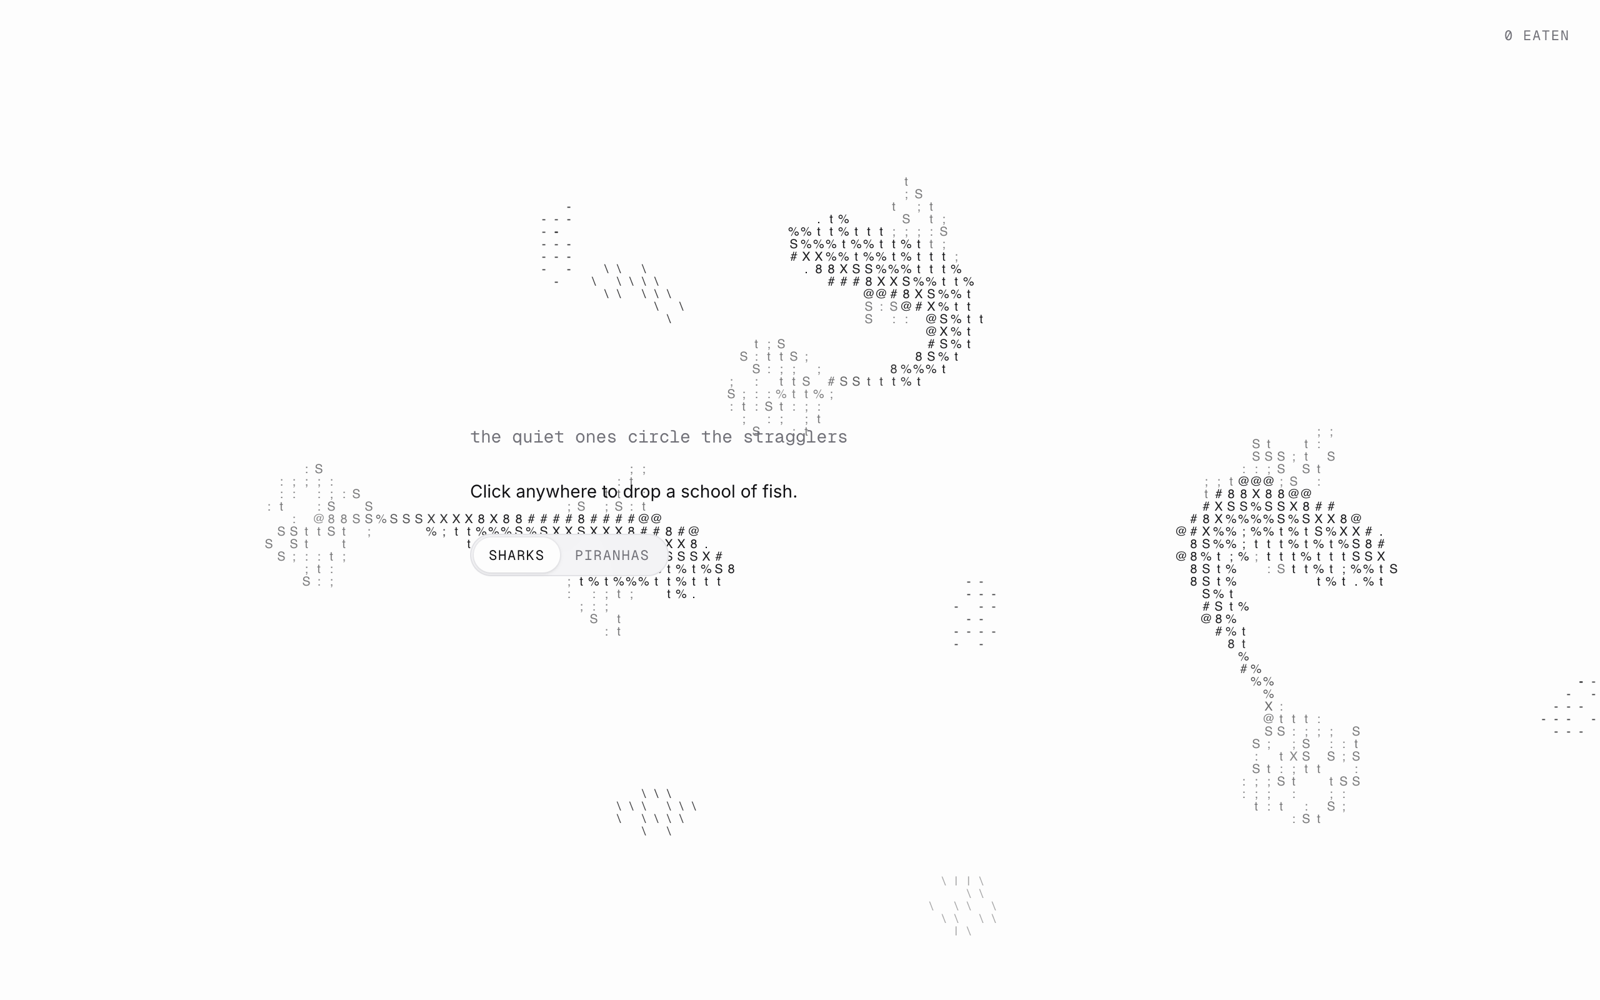
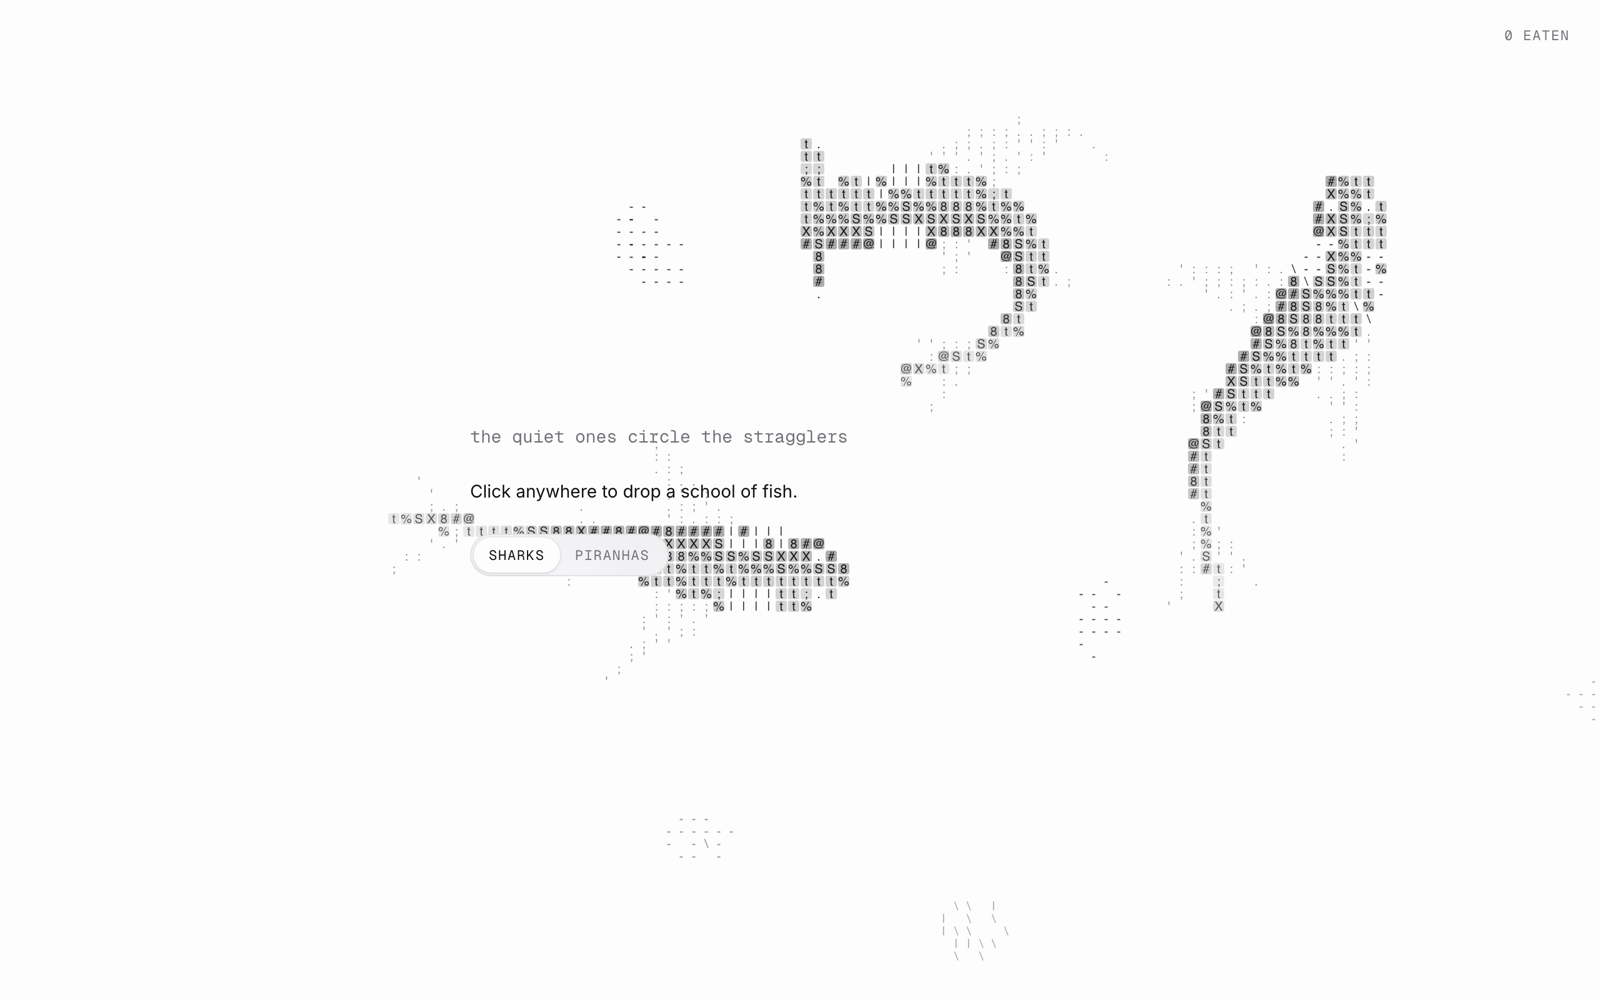
Ocean: sharks as shaded tiles with swept-back pectorals, dorsal line, gill slits and a forked tail, turning wide; every second shark a hammerhead; piranhas get blood on click and go into a frenzy, faster and tighter, tearing through the cloud

diff --git a/registry/blocks/ocean.tsx b/registry/blocks/ocean.tsx
@@ -7,9 +7,11 @@ import { hash, stroke, useAsciiCanvas, type AsciiGrid } from "@/hooks/use-ascii-
 // Bait fish are single strokes that school and scatter. Predators are
 // shaded with a glyph ramp: sparse glyphs where the light falls, dense ones
 // in shadow, so the texture reads as a body. Two kinds:
-//   shark   — a few long bodies cruising slowly, lunging at stragglers
+//   shark   — a few long bodies, shaded tiles with their glyphs, cruising and
+//             lunging at stragglers; every second one is a hammerhead
 //   piranha — a pack of short fast bodies that turn on prey together
-// Click to drop a school where you clicked. `onEat` reports the running total.
+// Click: sharks get a new school; piranhas get blood in the water and go into
+// a frenzy, tearing through it. `onEat` reports the fish eaten so far.
 //
 //   <Ocean predator="piranha" className="h-96" onEat={setEaten} />
 
@@ -29,8 +31,12 @@ type Hunter = {
   target: Bait | null
   /** Seconds left before it hunts again. */
   full: number
+  /** A hammerhead among the sharks. */
+  hammer: boolean
 }
 type Splash = { x: number; y: number; age: number; seed: number }
+/** A cloud of blood, for the piranhas. */
+type Blood = { x: number; y: number; age: number; seed: number }
 
 type Water = {
   width: number
@@ -38,6 +44,7 @@ type Water = {
   bait: Bait[]
   hunters: Hunter[]
   splashes: Splash[]
+  blood: Blood[]
   eaten: number
   onEat?: (eaten: number) => void
 }
@@ -46,14 +53,25 @@ const NODES = 16
 const RAMP = ":;t%SX8#@"
 const FIN = "%;tS:"
 const SPLASH_LIFE = 0.9
+const BLOOD_LIFE = 4.5
+
+/** A fin as a triangle in body space: leading root, trailing root, tip (s), and how far the tip reaches past the body (fraction of length). */
+type Fin = [number, number, number, number]
 
 type Profile = {
   /** Half-width of the body at s (0 snout → 1 tail), as a fraction of length. */
   body: (s: number) => number
-  /** Fin reach beyond the body at s, as a fraction of length (0: no fin). */
-  fin: (s: number) => number
+  fins: Fin[]
+  /** Where the dorsal fin rides on the back, drawn bright down the middle. */
+  ridge?: [number, number]
+  /** Where the gill slits cut across the flanks. */
+  gills?: [number, number]
+  /** The eyes: s along, and how far out (fraction of length). */
+  eye: [number, number]
   cruise: number
   chase: number
+  /** Speed in a frenzy (piranhas in blood). */
+  frenzy: number
   /** Max turn, rad/s. */
   agility: number
   reach: number
@@ -66,32 +84,61 @@ const smooth = (a: number, b: number, x: number) => {
 
 const PROFILES: Record<Kind, Profile> = {
   shark: {
+    // Blunt snout, widest behind the gills, a long taper to the tail.
     body: (s) =>
-      s < 0.16
-        ? 0.085 * Math.pow(Math.sin(((s / 0.16) * Math.PI) / 2), 0.9)
-        : s < 0.84
-          ? 0.085 - 0.07 * smooth(0.34, 0.84, s)
-          : 0.015,
-    // Pectorals swept back, and the tail's two lobes.
-    fin: (s) =>
-      s > 0.24 && s < 0.44
-        ? 0.17 * (1 - (s - 0.24) / 0.2) * smooth(0.24, 0.27, s)
-        : s > 0.86
-          ? 0.13 * ((s - 0.86) / 0.14)
-          : 0,
+      s < 0.13
+        ? 0.09 * Math.pow(Math.sin(((s / 0.13) * Math.PI) / 2), 0.95)
+        : s < 0.3
+          ? 0.09 + 0.016 * smooth(0.13, 0.3, s)
+          : s < 0.86
+            ? 0.019 + 0.087 * Math.pow(1 - (s - 0.3) / 0.56, 1.25)
+            : 0.016,
+    fins: [
+      [0.15, 0.43, 0.55, 0.26], // pectorals, swept back: what makes it a shark from above
+      [0.57, 0.65, 0.69, 0.085], // pelvics
+      [0.86, 0.99, 1.1, 0.11], // the forked tail
+    ],
+    ridge: [0.33, 0.47],
+    gills: [0.19, 0.29],
+    eye: [0.09, 0.055],
     cruise: 30,
     chase: 74,
+    frenzy: 74,
     agility: 1.4,
     reach: 0.12,
   },
   piranha: {
     body: (s) => (s < 0.8 ? 0.2 * Math.pow(Math.sin(((s + 0.04) / 0.84) * Math.PI), 0.7) : 0.03),
-    fin: (s) => (s > 0.32 && s < 0.5 ? 0.08 : s > 0.8 ? 0.2 * ((s - 0.8) / 0.2) : 0),
+    fins: [
+      [0.3, 0.45, 0.52, 0.08],
+      [0.8, 0.98, 1.12, 0.17],
+    ],
+    eye: [0.14, 0.13],
     cruise: 44,
     chase: 120,
+    frenzy: 230,
     agility: 5,
     reach: 0.3,
   },
+}
+
+/** The hammerhead: the same shark under a wide flat head, eyes out on its tips. */
+const HAMMER: Profile = {
+  ...PROFILES.shark,
+  body: (s) =>
+    Math.max(PROFILES.shark.body(s), s < 0.08 ? 0.2 * smooth(0, 0.012, s) * (1 - smooth(0.05, 0.08, s)) : 0),
+  eye: [0.035, 0.19],
+}
+
+/** Is (s, a) inside a fin triangle whose base sits on the spine? */
+function inFin([s0, s1, tip, reach]: Fin, body: (s: number) => number, s: number, a: number) {
+  const ax = s0, ay = 0
+  const bx = s1, by = 0
+  const cx = tip, cy = body(Math.min(1, tip)) + reach
+  const d = (by - cy) * (ax - cx) + (cx - bx) * (ay - cy)
+  const u = ((by - cy) * (s - cx) + (cx - bx) * (a - cy)) / d
+  const v = ((cy - ay) * (s - cx) + (ax - cx) * (a - cy)) / d
+  return u >= 0 && v >= 0 && u + v <= 1
 }
 
 function spawnHunter(kind: Kind, width: number, height: number, i: number, n: number): Hunter {
@@ -114,6 +161,8 @@ function spawnHunter(kind: Kind, width: number, height: number, i: number, n: nu
     turnTo: 0,
     retarget: r(5) * 2,
     seed: r(6) * 100,
+    // Every second shark is a hammerhead.
+    hammer: kind === "shark" && i % 2 === 1,
     target: null,
     full: r(7) * 3,
   }
@@ -138,6 +187,8 @@ function step(kind: Kind, w: Water, dt: number, time: number) {
   const P = PROFILES[kind]
   for (const s of w.splashes) s.age += dt
   w.splashes = w.splashes.filter((s) => s.age < SPLASH_LIFE)
+  for (const b of w.blood) b.age += dt
+  w.blood = w.blood.filter((b) => b.age < BLOOD_LIFE)
 
   // Bait: separation, alignment, cohesion; scatter from any head close by.
   const live = w.bait.filter((b) => b.alive)
@@ -211,7 +262,7 @@ function step(kind: Kind, w: Water, dt: number, time: number) {
     h.full = Math.max(0, h.full - dt)
     h.retarget -= dt
     if (h.retarget < 0) {
-      h.turnTo = (hash(h.seed, time, 3) - 0.5) * (kind === "shark" ? 0.9 : 2.4)
+      h.turnTo = (hash(h.seed, time, 3) - 0.5) * (kind === "shark" ? 0.45 : 2.4)
       h.retarget = 1.5 + hash(h.seed, time, 4) * 2.5
     }
     let want = h.turnTo
@@ -238,7 +289,14 @@ function step(kind: Kind, w: Water, dt: number, time: number) {
     }
     const towards = (x: number, y: number) =>
       Math.max(-P.agility, Math.min(P.agility, wrapAngle(Math.atan2(y - hy, x - hx) - h.heading) * 3))
-    if (h.target) {
+    // Blood in the water: every piranha goes mad for it, tearing through the cloud.
+    const cloud = w.blood[w.blood.length - 1]
+    if (cloud) {
+      const spin = (h.seed % 2 > 1 ? 1 : -1) * (time * 5 + h.seed)
+      const rad = 8 + (h.seed % 1) * 34
+      want = towards(cloud.x + Math.cos(spin) * rad, cloud.y + Math.sin(spin) * rad) * 1.6
+      speed = P.frenzy
+    } else if (h.target) {
       want = towards(h.target.x, h.target.y)
       speed = P.chase
       if (Math.hypot(h.target.x - hx, h.target.y - hy) < Math.max(10, h.length * P.reach * 0.5)) {
@@ -266,15 +324,17 @@ function step(kind: Kind, w: Water, dt: number, time: number) {
       const d = Math.hypot(dx, dy)
       if (d < h.length * 0.9 && d > 0) want += wrapAngle(Math.atan2(dy, dx) - h.heading) * (1 - d / (h.length * 0.9)) * 2
     }
-    want = Math.max(-P.agility, Math.min(P.agility, want))
+    // Sharks always turn wide; a tight turn folds the body out of shape.
+    const cap = P.agility * (cloud ? 1.6 : 1) * (kind === "shark" ? (h.target ? 0.6 : 0.45) : 1)
+    want = Math.max(-cap, Math.min(cap, want))
     const m = h.length * 0.3
-    if (!h.target && (hx < m || hy < m || hx > w.width - m || hy > w.height - m))
+    if (!h.target && !cloud && (hx < m || hy < m || hx > w.width - m || hy > w.height - m))
       want = towards(w.width / 2, w.height / 2) * 0.8
 
-    h.turn += (want - h.turn) * Math.min(1, dt * (kind === "shark" ? 1.5 : 6))
-    h.speed += (speed - h.speed) * Math.min(1, dt * (kind === "shark" ? 0.8 : 3))
-    const beat = kind === "shark" ? 2.2 : 9
-    h.heading += (h.turn + Math.sin(time * beat + h.seed) * (kind === "shark" ? 0.18 : 0.6)) * dt
+    h.turn += (want - h.turn) * Math.min(1, dt * (kind === "shark" ? 1.5 : cloud ? 10 : 6))
+    h.speed += (speed - h.speed) * Math.min(1, dt * (kind === "shark" ? 0.8 : cloud ? 5 : 3))
+    const beat = kind === "shark" ? 2.2 : cloud ? 16 : 9
+    h.heading += (h.turn + Math.sin(time * beat + h.seed) * (kind === "shark" ? 0.07 : 0.6)) * dt
     h.spine[0] = [hx + Math.cos(h.heading) * h.speed * dt, hy + Math.sin(h.heading) * h.speed * dt]
     const seg = h.length / (NODES - 1)
     for (let i = 1; i < NODES; i++) {
@@ -297,7 +357,8 @@ function locate(spine: Vec[], x: number, y: number) {
     const vx = bx - ax
     const vy = by - ay
     const len2 = vx * vx + vy * vy || 1
-    const t = Math.max(0, Math.min(1, ((x - ax) * vx + (y - ay) * vy) / len2))
+    // The last segment runs on past the tail, so a tail fin can reach beyond it.
+    const t = Math.max(0, Math.min(i === NODES - 2 ? 2.5 : 1, ((x - ax) * vx + (y - ay) * vy) / len2))
     const d = Math.hypot(x - (ax + vx * t), y - (ay + vy * t))
     if (d < best) {
       best = d
@@ -320,7 +381,6 @@ function point(spine: Vec[], s: number, across: number) {
 
 function draw(kind: Kind, g: AsciiGrid, w: Water, accent: string) {
   const { cell } = g
-  const P = PROFILES[kind]
   const cellOf = (x: number, y: number): Vec => [Math.floor(x / cell), Math.floor(y / cell)]
 
   for (const b of w.bait) {
@@ -329,13 +389,30 @@ function draw(kind: Kind, g: AsciiGrid, w: Water, accent: string) {
     g.glyph(c, r, stroke(Math.atan2(b.vy, b.vx)), g.ink, 0.36 + b.alarm * 0.45)
   }
 
+  // Blood: a dense red bloom that thins and spreads as it fades.
+  for (const b of w.blood) {
+    const t = b.age / BLOOD_LIFE
+    const radius = cell * 1.5 + Math.sqrt(t) * cell * 7
+    const seen = new Set<string>()
+    for (let i = 0; i < 46; i++) {
+      const a = hash(b.seed, i, 1) * Math.PI * 2 + t * (hash(b.seed, i, 4) - 0.5)
+      const d = radius * Math.sqrt(hash(b.seed, i, 2))
+      const [c, r] = cellOf(b.x + Math.cos(a) * d, b.y + Math.sin(a) * d + t * cell * 2)
+      if (seen.has(`${c},${r}`)) continue
+      seen.add(`${c},${r}`)
+      const k = Math.min(RAMP.length - 1, Math.floor((1 - d / radius) * (1 - t) * RAMP.length))
+      g.glyph(c, r, RAMP[k], accent, Math.pow(1 - t, 0.7) * (0.5 + (1 - d / radius) * 0.5))
+    }
+  }
+
   for (const h of w.hunters) {
+    const P = h.hammer ? HAMMER : PROFILES[kind]
     const L = h.length
     let x0 = Infinity, y0 = Infinity, x1 = -Infinity, y1 = -Infinity
     for (const [x, y] of h.spine) {
       x0 = Math.min(x0, x); y0 = Math.min(y0, y); x1 = Math.max(x1, x); y1 = Math.max(y1, y)
     }
-    const pad = L * 0.24
+    const pad = L * 0.42
     const [c0, r0] = cellOf(x0 - pad, y0 - pad)
     const [c1, r1] = cellOf(x1 + pad, y1 + pad)
     for (let r = Math.max(0, r0); r <= Math.min(g.rows, r1); r++)
@@ -350,20 +427,40 @@ function draw(kind: Kind, g: AsciiGrid, w: Water, accent: string) {
           const light = Math.max(0, Math.min(1, 0.62 - u * 0.32 - Math.abs(u) * Math.abs(u) * 0.3 + (n - 0.5) * 0.18))
           const char = RAMP[Math.min(RAMP.length - 1, Math.floor((1 - light) * RAMP.length))]
           const tail = smooth(0.6, 1, s)
-          g.glyph(c, r, char, g.ink, 0.95 - tail * 0.45)
+          // The dorsal fin, seen from above: a bright dense line down the back.
+          const ridge = P.ridge && s > P.ridge[0] && s < P.ridge[1] && Math.abs(u) < 0.12
+          // Sharks are tiles: a block shaded by the light with its glyph on top.
+          if (kind === "shark") g.block(c, r, g.ink, (0.1 + (1 - light) * 0.28) * (1 - tail * 0.5))
+          g.glyph(c, r, ridge ? "8" : char, g.ink, ridge ? 0.9 : 0.95 - tail * 0.3)
           continue
         }
-        const fin = P.fin(s) * L
-        if (fin > 0 && a <= body + fin && n > 0.2) {
+        if (P.fins.some((f) => inFin(f, P.body, s, a / L))) {
           const char = FIN[Math.floor(n * FIN.length)]
+
           // Piranhas wear their colour on the fins.
-          g.glyph(c, r, char, kind === "piranha" ? accent : g.ink, kind === "piranha" ? 0.9 : 0.55)
+          // Fins stay lighter than the body, so the silhouette reads.
+          g.glyph(c, r, kind === "piranha" ? char : ":;.'"[Math.floor(n * 4)], kind === "piranha" ? accent : g.ink, kind === "piranha" ? 0.9 : 0.5)
         }
       }
 
+    // Gill slits: short strokes across each flank.
+    if (P.gills) {
+      const [g0, g1] = P.gills
+      for (let k = 0; k < 4; k++) {
+        const gs = g0 + ((g1 - g0) * k) / 3
+        for (const side of [-1, 1])
+          for (const f of [0.55, 0.85]) {
+            const q = point(h.spine, gs, side * P.body(gs) * L * f)
+            const [qc, qr] = cellOf(q.x, q.y)
+            g.clear(qc, qr)
+            g.glyph(qc, qr, stroke(q.dir + Math.PI / 2), g.ink, 0.85)
+          }
+      }
+    }
+
     // Eyes; piranhas show their teeth.
     for (const side of [-1, 1]) {
-      const eye = point(h.spine, kind === "shark" ? 0.09 : 0.14, side * P.body(0.12) * L * 0.7)
+      const eye = point(h.spine, P.eye[0], side * P.eye[1] * L)
       const [ec, er] = cellOf(eye.x, eye.y)
       g.clear(ec, er)
       g.glyph(ec, er, kind === "shark" ? "." : "o", g.ink, 1)
@@ -371,7 +468,7 @@ function draw(kind: Kind, g: AsciiGrid, w: Water, accent: string) {
     if (kind === "piranha") {
       const jaw = point(h.spine, 0.01, 0)
       const [jc, jr] = cellOf(jaw.x + Math.cos(jaw.dir) * cell * 0.6, jaw.y + Math.sin(jaw.dir) * cell * 0.6)
-      g.glyph(jc, jr, "v", g.ink, h.target ? 1 : 0.6)
+      g.glyph(jc, jr, "v", g.ink, h.target || w.blood.length ? 1 : 0.6)
     }
   }
 
@@ -399,7 +496,7 @@ export function Ocean({
   predator?: Kind
   /** How many hunters; defaults to 3 sharks or a pack of 8 piranhas, fewer in a small ocean. */
   count?: number
-  /** The piranhas' fins and splashes; sharks stay in the ink. */
+  /** The piranhas' fins, splashes and blood; sharks stay in the ink. */
   accent?: string
   cell?: number
   onEat?: (eaten: number) => void
@@ -428,6 +525,7 @@ export function Ocean({
           school(width * (0.2 + hash(i, 1, 9) * 0.6), height * (0.2 + hash(i, 2, 9) * 0.6), 16, i + 1)
         ).flat(),
         splashes: [],
+        blood: [],
         eaten: prev?.eaten ?? 0,
         onEat: (k) => eat.current?.(k),
       }
@@ -445,8 +543,14 @@ export function Ocean({
         const w = scene.current
         if (!w) return
         const box = e.currentTarget.getBoundingClientRect()
-        // A new school where you clicked; the oldest fish make room.
-        const fresh = school(e.clientX - box.left, e.clientY - box.top, 12, Math.random() * 1000)
+        const x = e.clientX - box.left
+        const y = e.clientY - box.top
+        // Piranhas get blood; sharks get a new school, and the oldest fish make room.
+        if (w.kind === "piranha") {
+          w.blood.push({ x, y, age: 0, seed: Math.random() * 1000 })
+          return
+        }
+        const fresh = school(x, y, 12, Math.random() * 1000)
         w.bait.push(...fresh)
         if (w.bait.length > 160) w.bait.splice(0, w.bait.length - 160)
       }}

diff --git a/registry/examples/ocean.tsx b/registry/examples/ocean.tsx
@@ -22,7 +22,9 @@ export function OceanExample({ predator: initial = "shark" }: { predator?: "shar
         <p className="font-mono text-sm text-muted-foreground">
           {predator === "shark" ? "the quiet ones circle the stragglers" : "nothing in the river stays whole for long"}
         </p>
-        <p className="max-w-md text-sm text-foreground">Click anywhere to drop a school of fish.</p>
+        <p className="max-w-md text-sm text-foreground">
+          {predator === "shark" ? "Click anywhere to drop a school of fish." : "Click anywhere to put blood in the water."}
+        </p>
         <div className="pointer-events-auto w-fit rounded-full bg-background/85 backdrop-blur-sm">
           <Segmented
             aria-label="Predator"

diff --git a/skills/uia/references/examples.md b/skills/uia/references/examples.md
@@ -25,7 +25,7 @@ your visual reference. Screenshots are also in the uia repo under
 | Ground station | `example-ground-station` | drag-to-turn wireframe globe with orbits (front solid, back dashed), the night side shaded for volume, satellites as a small glyph along their heading, a recenter button only once turned, "in view" stat, sky plot of the pass (dashed when upcoming, live in `success`), countdown or live Mbps, onboard `MeterBar`, satellites as `WidgetListRow`s with a 3 h pass timeline + `StatusBadge`, station `Select` with mono coordinates, UTC clock ×60 in the footer and a Book CTA that books the next pass (never the one under way); switching station says "Tracking from …" where the clock is, for a moment (no toast); out-of-view rows use a hollow dot; phones drop the timelines | live tracking of things moving over a place (satellites, fleets, deliveries), any widget with a spatial view + a list of upcoming windows |
 | Purchase orders + Filter | `example-purchase-orders` | **PurchaseOrders:** status `Segmented` with mono counts (a `Select` on phones), removable date chip, supplier `Select`, search that opens from an icon; rows as a schedule — placed → delivery, `brand` fill as far as billed, dashed outline while pending, a ring for delivery, one dashed "Today" line and week lines drawn once behind the rows, legend under it; checkboxes turn the footer into bulk actions. **BillsFilter:** due-date chips that read "Sep 1" over the native picker, an amount range over its histogram (bars lit inside the range, sqrt scale), "Overdue only" switch, document types with counts, "Show N bills" counting live, Reset once changed | any list of records over time with bulk actions; any filter panel (show the distribution you are cutting, count the result on the button) |
 | Koi pond | `example-koi-pond` | an ASCII backdrop: koi as small blocks in the ink with patches in one colour, eyes punched out, whiskers and fins as strokes, swimming on a cell grid under a typed line; click drops food, rings spread in ASCII and the nearest koi turn for it; the corner counts what was eaten | landing and empty pages, a hero behind a short line; never inside a widget |
-| Ocean | `example-ocean` | an ASCII backdrop of predators and prey: bait fish as single strokes that school and scatter, predators shaded with a glyph ramp (sparse where the light falls, dense in shadow); sharks cruise and lunge at stragglers, a piranha pack turns on prey together with fins in one colour; click drops a school; the corner counts what was eaten | the same places as the koi pond: landing, empty and error pages, behind a short line |
+| Ocean | `example-ocean` | an ASCII backdrop of predators and prey: bait fish as single strokes that school and scatter, predators shaded with a glyph ramp (sparse where the light falls, dense in shadow); sharks are shaded tiles with swept-back pectorals, a dorsal line, gill slits and a forked tail, every second one a hammerhead, turning wide and lunging at stragglers; a piranha pack with fins in one colour; click drops a school for the sharks, or blood for the piranhas, which go into a frenzy and tear through it; the corner counts what was eaten | the same places as the koi pond: landing, empty and error pages, behind a short line |
 | Merge conflicts | `example-merge-conflicts` | a pull request behind its base: branches as a commit graph drawn row by row (one lane per branch, curves only where a branch forks or merges, so lines stay aligned as rows arrive), the base commit that touched the same lines tagged, conflicting files as a list linked to the graph (hover dims the other commits), each file opening to both sides with a bar in its branch colour, then the resolved lines coloured by origin; one verb at a time in the footer (Merge main and resolve → Merge pull request); the merge commit arrives dashed and shimmering, files resolve one by one. Also answered in the Assistant (`?scenario=merge`) at `size="sm"` | code review, CI, any agent that fixes something in the person's repo and needs a go-ahead; any history with branches |
 | Model router | `example-model-router` | number + `Segmented` policy, flow graph linked to a list, inline controls in a sentence (Fallback if … retry on …), deploy with states | configuration with a preview, routing, A/B, policies |
 | Agent runtime | `example-agent-runtime` | small number of things with state, illustration that highlights the focused thing, list rows with badge + countdown, select → act | resources with lifecycle (jobs, agents, sandboxes, workers) |

diff --git a/skills/uia/references/components.md b/skills/uia/references/components.md
@@ -317,7 +317,7 @@ The `example-*` files are only fixtures: data, simulation timers, and a
 | `GroundStation` | `block-ground-station` | `stations`/`stationId`, `satellites` (orbit elements + onboard), `selectedId`, `time`, `speed`, `mask`, `horizon`, `onBook`; exports `look` and `passes` so the host computes the same visibility |
 | `PurchaseOrders` | `block-purchase-orders` | `orders` (status, amount, ordered/delivery dates, billed share), `today`, `period`, `onApprove(ids)`, `onMarkBilled(ids)`, `defaultSelected`; the verbs show only with a selection, the list cuts at whole rows and fades while more sit below |
 | `KoiPond` | `block-koi-pond` | `count` (most koi; small ponds hold fewer), `accent` (the koi's own colour), `cell`, `onFeed(fed)`, `children` (the content over the water) |
-| `Ocean` | `block-ocean` | `predator` (`shark` \| `piranha`), `count` (fewer in a small ocean), `accent` (piranha fins and splashes; sharks stay in the ink), `cell`, `onEat(eaten)`, `children` |
+| `Ocean` | `block-ocean` | `predator` (`shark` \| `piranha`), `count` (fewer in a small ocean), `accent` (piranha fins, splashes and blood; sharks stay in the ink; every second shark is a hammerhead), `cell`, `onEat(eaten)`, `children` |
 | `MergeConflicts` | `block-merge-conflicts` | `number`, `title`, `head`/`base`, `branches` (lane order), `commits` (newest first, `parents`, `pending`), `files` (ours/theirs commit, hunks with `result` lines by origin, `outcome`, `note`), `state` (conflict → resolving → resolved → merging → merged), `resolved`, `onResolve`, `onMerge`, `size` |
 | `BillsFilter` | `block-bills-filter` | `documents`, `defaults`, `onApply(filter, count)`; exports `matches` |
 | `ModelEvals` | `block-model-evals` | `model`, `suites`, `baselines`, `failures`, `target`, `min`, `baseline`, `onRerun`, `running`, `labels`, `locale` |
